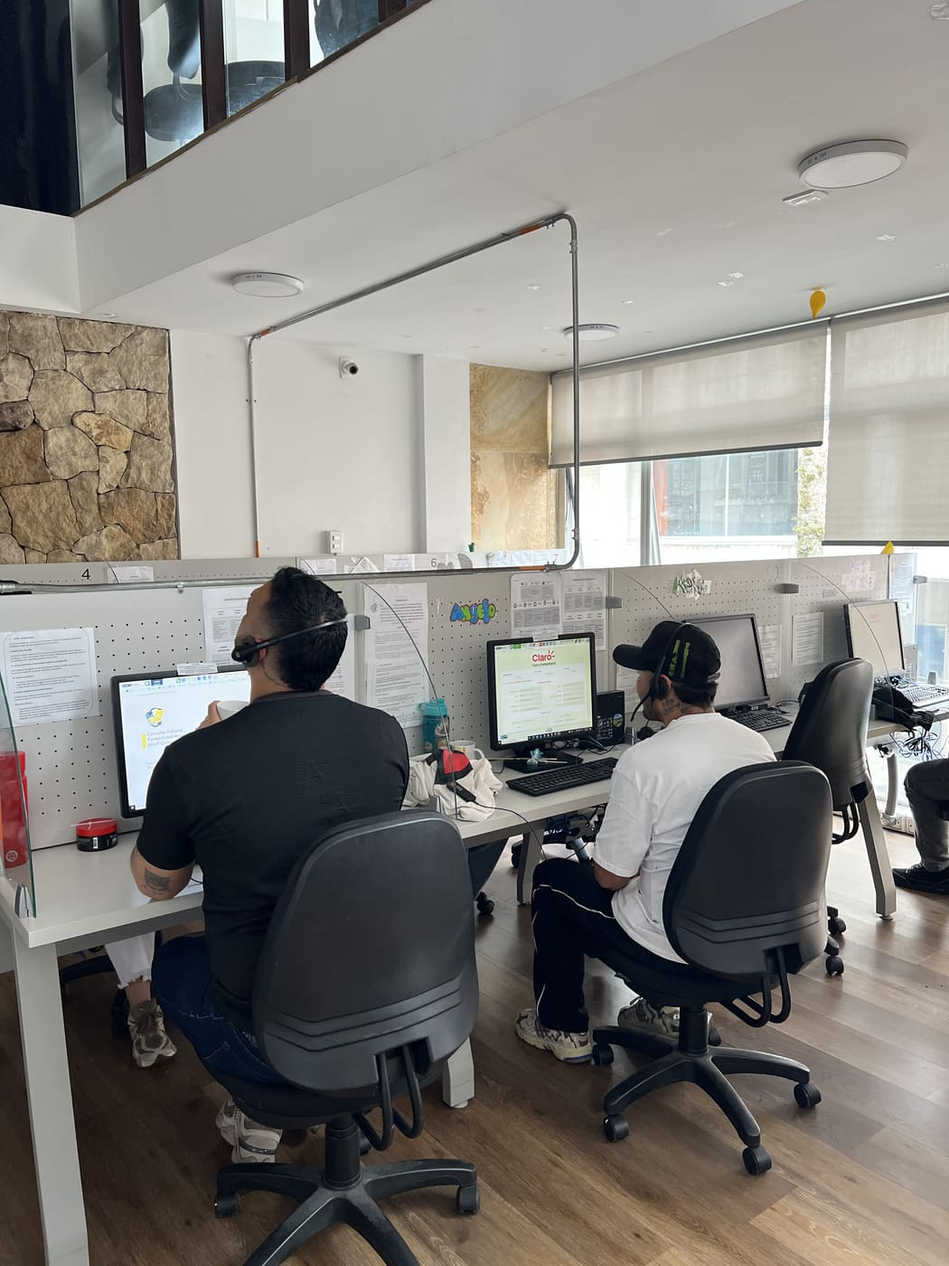
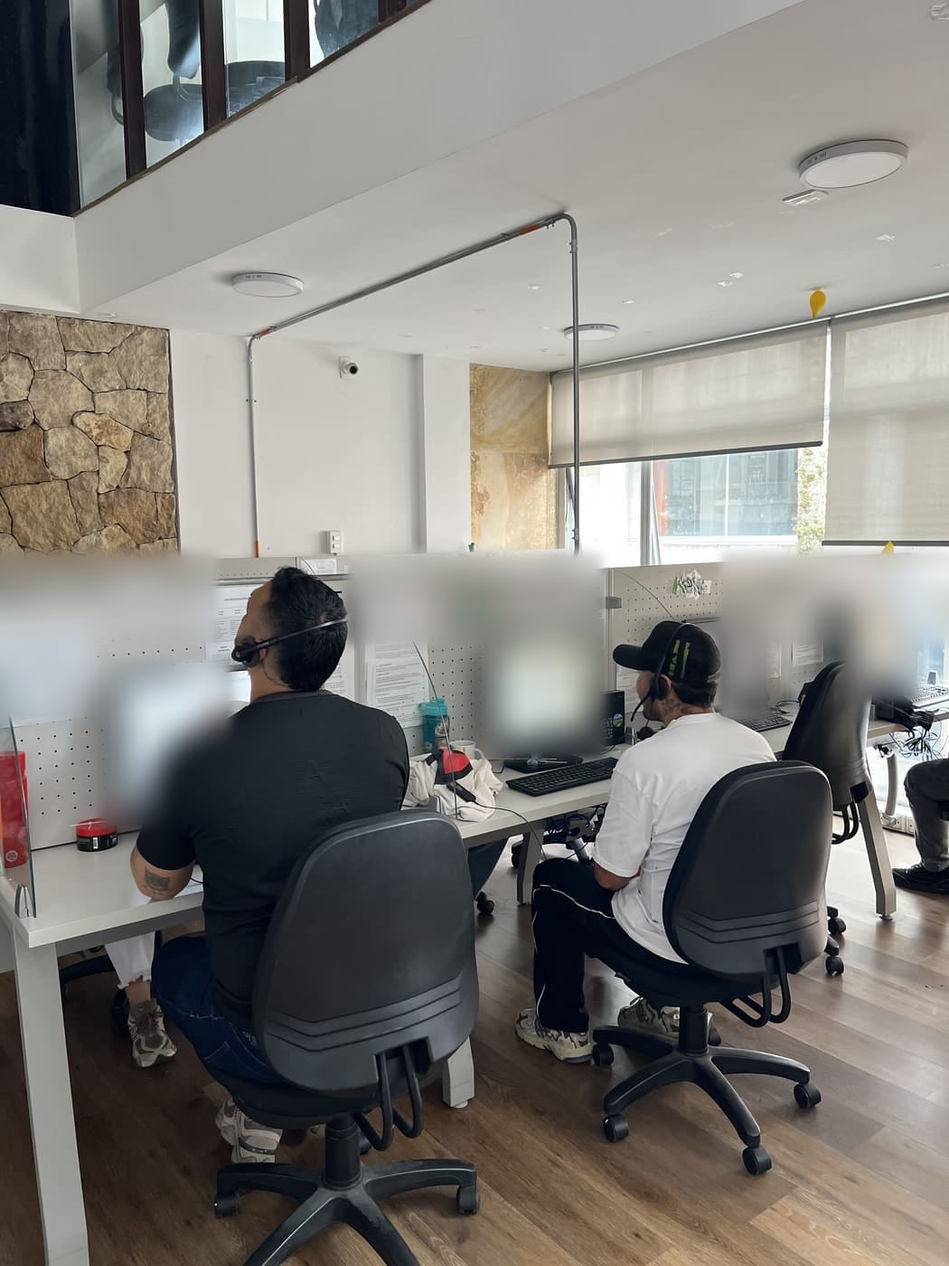
ISO 27001: fotos sin pantallas ni documentos visibles, políticas de datos y seguridad, autorización en formularios y cabeceras de seguridad
- Portada y galería: se desenfocan monitores, papeles y publicidad del cliente (A.7.7, A.5.31)
- Política de tratamiento de datos (Ley 1581) y política de seguridad de la información (A.5.1, A.5.34)
- Contáctanos pide autorización de datos; Trabaja con nosotros enlaza la política, finalidad y conservación
- Footer con columna Legal y canal para reportar incidentes; security.txt (A.5.24)
- Cabeceras CSP, X-Frame-Options, nosniff, Referrer-Policy, Permissions-Policy (A.8.9, A.8.26)
- Scripts del head en archivo propio (CSP sin unsafe-inline); se quita la afirmación de cifrado extremo a extremo

diff --git a/politica-datos.html b/politica-datos.html
@@ -1,0 +1,112 @@
+<!DOCTYPE html>
+<html lang="es">
+<head>
+  <meta charset="utf-8">
+  <meta name="viewport" content="width=device-width, initial-scale=1">
+  <title>Política de tratamiento de datos — VOZ360</title>
+  <meta name="description" content="Política de tratamiento de datos personales de VOZ360 conforme a la Ley 1581 de 2012.">
+  <meta name="theme-color" content="#071E3A">
+  <link rel="icon" href="assets/favicon.svg" type="image/svg+xml">
+  <link rel="stylesheet" href="css/legal.css?v=1">
+</head>
+<body>
+
+<header class="lg-head">
+  <div class="in">
+    <a href="./" aria-label="VOZ360 — inicio"><img src="assets/img/marca/voz360-blanco.png" width="900" height="323" alt="VOZ360"></a>
+    <a class="back" href="./">← Volver al sitio</a>
+  </div>
+</header>
+
+<section class="lg-hero">
+  <div class="in">
+    <small>Protección de datos personales</small>
+    <h1>Política de tratamiento de datos personales</h1>
+    <p>Versión 1.0 · Vigente desde septiembre de 2026 · Ley 1581 de 2012 y Decreto 1074 de 2015</p>
+  </div>
+</section>
+
+<main>
+  <h2>1. Responsable del tratamiento</h2>
+  <div class="box">
+    <p><b>Razón social:</b> VOZ360</p>
+    <p><b>NIT:</b> [NIT]</p>
+    <p><b>Domicilio y dirección:</b> [DIRECCIÓN]</p>
+    <p><b>Teléfono:</b> [TELÉFONO]</p>
+    <p><b>Correo para protección de datos:</b> <a href="mailto:datospersonales@voz360.co">datospersonales@voz360.co</a></p>
+  </div>
+
+  <h2>2. Marco legal y alcance</h2>
+  <p>Esta política se expide en cumplimiento del artículo 15 de la Constitución Política, la Ley Estatutaria 1581 de 2012 y el Decreto 1074 de 2015 (que compila el Decreto 1377 de 2013). Aplica a todos los datos personales que VOZ360 recoge, almacena, usa, circula o suprime, ya sea como <b>responsable</b> o como <b>encargado</b> por cuenta de sus clientes.</p>
+
+  <h2>3. Definiciones</h2>
+  <ul>
+    <li><b>Dato personal:</b> información vinculada o que pueda asociarse a una persona natural determinada o determinable.</li>
+    <li><b>Dato sensible:</b> el que afecta la intimidad del titular o cuyo uso indebido puede generar discriminación (por ejemplo, salud o datos biométricos).</li>
+    <li><b>Titular:</b> persona natural cuyos datos son objeto de tratamiento.</li>
+    <li><b>Tratamiento:</b> cualquier operación sobre datos personales: recolección, almacenamiento, uso, circulación o supresión.</li>
+    <li><b>Responsable:</b> quien decide sobre la base de datos y el tratamiento. <b>Encargado:</b> quien trata los datos por cuenta del responsable.</li>
+    <li><b>Autorización:</b> consentimiento previo, expreso e informado del titular.</li>
+  </ul>
+
+  <h2>4. Principios</h2>
+  <p>VOZ360 aplica los principios de legalidad, finalidad, libertad, veracidad o calidad, transparencia, acceso y circulación restringida, seguridad y confidencialidad. Solo recogemos los datos necesarios para la finalidad informada y no los usamos para fines distintos sin una nueva autorización.</p>
+
+  <h2>5. Datos que tratamos y para qué</h2>
+  <table>
+    <thead><tr><th>Titulares</th><th>Datos</th><th>Finalidades</th></tr></thead>
+    <tbody>
+      <tr><td>Personas que nos contactan por el sitio web</td><td>Nombre, empresa, cargo, ciudad, correo, teléfono y mensaje.</td><td>Responder la solicitud, enviar propuestas comerciales solicitadas y hacer seguimiento a la relación comercial.</td></tr>
+      <tr><td>Aspirantes a empleo</td><td>Identificación, fecha de nacimiento, datos de contacto, lugares de nacimiento y expedición del documento, experiencia y hoja de vida.</td><td>Verificar identidad y edad, evaluar el perfil, contactar al aspirante y adelantar el proceso de selección.</td></tr>
+      <tr><td>Colaboradores</td><td>Datos laborales, de seguridad social, imagen y voz.</td><td>Gestionar la relación laboral, obligaciones legales, seguridad de las instalaciones y comunicaciones internas o institucionales.</td></tr>
+      <tr><td>Usuarios atendidos en las campañas de nuestros clientes</td><td>Los que defina cada cliente, incluidas grabaciones de llamadas e interacciones.</td><td>Prestar el servicio contratado, en calidad de <b>encargado</b>, según las instrucciones del cliente responsable. Las llamadas pueden ser grabadas y monitoreadas con fines de calidad y seguridad, con aviso previo al usuario.</td></tr>
+      <tr><td>Personas que aparecen en fotos o videos institucionales</td><td>Imagen y voz.</td><td>Divulgación institucional en el sitio web y redes sociales de VOZ360, con autorización previa de cada persona.</td></tr>
+    </tbody>
+  </table>
+
+  <h2>6. Datos sensibles y de menores</h2>
+  <p>El titular no está obligado a autorizar el tratamiento de datos sensibles; su entrega es facultativa. VOZ360 no solicita datos de niños, niñas o adolescentes a través del sitio web; si llegara a tratarlos, lo hará respetando su interés superior y con autorización de su representante legal.</p>
+
+  <h2>7. Derechos del titular</h2>
+  <p>Como titular puedes:</p>
+  <ol>
+    <li>Conocer, actualizar y rectificar tus datos.</li>
+    <li>Solicitar prueba de la autorización otorgada.</li>
+    <li>Ser informado sobre el uso que se ha dado a tus datos.</li>
+    <li>Presentar quejas ante la Superintendencia de Industria y Comercio (SIC).</li>
+    <li>Revocar la autorización o pedir la supresión de tus datos cuando no exista un deber legal o contractual de conservarlos.</li>
+    <li>Acceder gratuitamente a tus datos.</li>
+  </ol>
+
+  <h2>8. Cómo ejercer tus derechos</h2>
+  <p>Escribe a <a href="mailto:datospersonales@voz360.co">datospersonales@voz360.co</a> indicando tu nombre, documento de identidad, la solicitud y un medio de respuesta.</p>
+  <ul>
+    <li><b>Consultas:</b> se responden en máximo <b>10 días hábiles</b>, prorrogables por 5 días hábiles más, informando el motivo.</li>
+    <li><b>Reclamos</b> (corrección, actualización, supresión o incumplimiento): se responden en máximo <b>15 días hábiles</b>, prorrogables por 8 días hábiles más. Si el reclamo está incompleto, te pediremos completarlo dentro de los 5 días siguientes; si pasan 2 meses sin respuesta, se entenderá que desististe.</li>
+  </ul>
+
+  <h2>9. Transmisión y transferencia</h2>
+  <p>Podemos compartir datos con proveedores que nos prestan servicios tecnológicos, de alojamiento o de mensajería, quienes actúan como encargados y están obligados por contrato a proteger la información. Si esos proveedores están fuera de Colombia, verificamos que ofrezcan un nivel adecuado de protección conforme a la ley. No vendemos ni cedemos datos personales a terceros.</p>
+
+  <h2>10. Seguridad de la información</h2>
+  <p>Aplicamos medidas técnicas, humanas y administrativas para evitar la pérdida, el uso o el acceso no autorizado a los datos, en el marco de nuestra <a href="politica-seguridad.html">Política de seguridad de la información</a>, alineada con la norma ISO/IEC 27001.</p>
+
+  <h2>11. Conservación</h2>
+  <p>Conservamos los datos solo durante el tiempo necesario para la finalidad informada y los plazos que exija la ley. Los datos de aspirantes no seleccionados se conservan máximo <b>12 meses</b>; las solicitudes comerciales, mientras dure la relación o hasta que pidas su supresión.</p>
+
+  <h2>12. Cookies y rastreadores</h2>
+  <p>Este sitio web <b>no utiliza cookies, píxeles de seguimiento ni herramientas de analítica de terceros</b>. Si esto cambia, lo informaremos y solicitaremos tu consentimiento cuando corresponda.</p>
+
+  <h2>13. Vigencia y cambios</h2>
+  <p>Esta política rige desde su publicación. Cualquier cambio sustancial se comunicará en este sitio web antes de aplicarse. Las bases de datos permanecerán vigentes mientras se cumplan las finalidades descritas.</p>
+</main>
+
+<footer class="lg-foot">
+  <div class="in">
+    <span>© 2026 VOZ360 · [NIT] · [DIRECCIÓN]</span>
+    <span><a href="politica-seguridad.html">Política de seguridad de la información</a></span>
+  </div>
+</footer>
+
+</body>
+</html>

diff --git a/index.html b/index.html
@@ -13,16 +13,9 @@
   <link rel="icon" href="assets/favicon.svg" type="image/svg+xml">
   <link rel="preload" href="assets/fonts/audiowide-latin.woff2" as="font" type="font/woff2" crossorigin>
   <link rel="preload" href="assets/fonts/sora-latin.woff2" as="font" type="font/woff2" crossorigin>
-  <link rel="stylesheet" href="css/styles.css?v=mum3ilz5">
+  <link rel="stylesheet" href="css/styles.css?v=mun37phx">
   <link rel="preload" href="assets/video/intro-360.mp4" as="video" type="video/mp4">
-  <script>
-    // Al entrar o recargar, la página siempre empieza desde el inicio
-    if ("scrollRestoration" in history) history.scrollRestoration = "manual";
-    if (location.hash) history.replaceState(null, "", location.pathname + location.search);
-    window.scrollTo(0, 0);
-    window.addEventListener("pageshow", function () { window.scrollTo({ top: 0, left: 0, behavior: "instant" }); });
-  </script>
-  <script>document.documentElement.classList.add('js', 'intro-active');setTimeout(function(){var i=document.getElementById('intro');if(i)i.classList.add('is-done');document.documentElement.classList.remove('intro-active');},8000);</script>
+  <script src="js/head.js?v=mun37phx"></script>
 </head>
 <body>
 
@@ -141,7 +134,7 @@
         <div class="qs-toast qs-t1"><div class="qs-ic qs-bl"><svg viewBox="0 0 24 24"><path d="M21 11.5a8.4 8.4 0 0 1-12.3 7.4L3 21l2-5.5A8.5 8.5 0 1 1 21 11.5z"/></svg></div><div><b>Nuevo chat entrante</b><small>WhatsApp · hace 2 s</small></div></div>
         <div class="qs-toast qs-t2"><div><small>Satisfacción</small><div class="qs-csat">4.9<span>/5</span></div><div class="qs-stars">★★★★★</div></div></div>
         <div class="qs-toast qs-t3"><div class="qs-ic qs-g"><svg viewBox="0 0 24 24"><path d="M20 6 9 17l-5-5"/></svg></div><div><b>Caso resuelto</b><small>Primer contacto</small></div></div>
-        <div class="qs-toast qs-t4"><div class="qs-ic qs-nv"><svg viewBox="0 0 24 24"><rect x="4" y="11" width="16" height="10" rx="2"/><path d="M8 11V7a4 4 0 0 1 8 0v4"/></svg></div><div><b>Datos protegidos</b><small>Cifrado extremo a extremo</small></div></div>
+        <div class="qs-toast qs-t4"><div class="qs-ic qs-nv"><svg viewBox="0 0 24 24"><rect x="4" y="11" width="16" height="10" rx="2"/><path d="M8 11V7a4 4 0 0 1 8 0v4"/></svg></div><div><b>Información protegida</b><small>Confidencialidad en cada gestión</small></div></div>
       </div>
     </div>
   </div>
@@ -663,6 +656,7 @@
       <div class="footer-brand" data-reveal>
         <img class="brand-logo" src="assets/img/marca/voz360-blanco.png" width="900" height="323" alt="VOZ360">
         <p>Conecta con soluciones.</p>
+        <p class="footer-sgsi">Comprometidos con la seguridad y la confidencialidad de la información de nuestros clientes, colaboradores y usuarios.</p>
         <div class="eq" aria-hidden="true">
           <span class="vz-bar" style="animation-delay:0s"></span>
           <span class="vz-bar" style="animation-delay:.2s"></span>
@@ -690,6 +684,12 @@
         <a href="#contacto">Contacto</a>
         <a href="#faq">Preguntas frecuentes</a>
         <a href="https://instagram.com/voz360_contact_center" target="_blank" rel="noopener">Instagram</a>
+      </div>
+      <div class="footer-col" data-reveal style="--delay:400ms">
+        <h4>Legal</h4>
+        <a href="politica-datos.html">Tratamiento de datos</a>
+        <a href="politica-seguridad.html">Seguridad de la información</a>
+        <a href="mailto:seguridad@voz360.co?subject=Reporte%20de%20incidente%20de%20seguridad">Reportar un incidente</a>
       </div>
     </div>
     <div class="footer-bottom">
@@ -759,7 +759,7 @@
       <div class="bot-flow" id="flow-contacto" hidden>
         <div class="bot-msg bot-msg--user">Contáctanos</div>
         <div class="bot-msg">Escríbenos y diseñamos una solución para tu empresa. Déjanos tus datos:</div>
-        <form class="form bot-form" id="contact-form" novalidate data-endpoint="FORM_ENDPOINT" data-required-msg="Revisa los campos obligatorios: nombre, correo y mensaje." data-ok-msg="¡Gracias! Recibimos tu solicitud y te contactaremos pronto.">
+        <form class="form bot-form" id="contact-form" novalidate data-endpoint="FORM_ENDPOINT" data-required-msg="Revisa los campos obligatorios: nombre, correo, mensaje y la autorización de datos." data-ok-msg="¡Gracias! Recibimos tu solicitud y te contactaremos pronto.">
           <div class="form-grid">
             <div class="field"><label for="f-nombre">Nombre</label><input id="f-nombre" name="nombre" type="text" placeholder="Tu nombre" autocomplete="name" required></div>
             <div class="field"><label for="f-empresa">Empresa</label><input id="f-empresa" name="empresa" type="text" placeholder="Nombre de tu empresa" autocomplete="organization"></div>
@@ -772,6 +772,7 @@
             <label for="f-msg">¿Cómo podemos ayudarte?</label>
             <textarea id="f-msg" name="mensaje" placeholder="Cuéntanos brevemente tu necesidad..." required></textarea>
           </div>
+          <label class="check"><input type="checkbox" name="autoriza_datos" value="Sí" required> <span>Autorizo a VOZ360 el tratamiento de mis datos personales para atender mi solicitud, según la <a href="politica-datos.html" target="_blank" rel="noopener">Política de tratamiento de datos</a> (Ley 1581 de 2012).</span></label>
           <button class="form-submit vz-btn" type="submit">Enviar solicitud</button>
           <p class="form-status" role="status" aria-live="polite"></p>
         </form>
@@ -821,7 +822,7 @@
                 <label><input type="radio" name="experiencia_call_center" value="No"><span>No</span></label>
               </div>
             </fieldset>
-            <label class="check field--full"><input type="checkbox" name="autoriza_datos" value="Sí" required> Autorizo a VOZ360 el tratamiento de mis datos personales para procesos de selección (Ley 1581 de 2012).</label>
+            <label class="check field--full"><input type="checkbox" name="autoriza_datos" value="Sí" required> <span>Autorizo a VOZ360 el tratamiento de mis datos personales para el proceso de selección (verificar identidad, contactarme y evaluar mi perfil), según la <a href="politica-datos.html" target="_blank" rel="noopener">Política de tratamiento de datos</a> (Ley 1581 de 2012). Si no soy seleccionado, mis datos se conservarán máximo 12 meses.</span></label>
           </div>
           <button class="form-submit vz-btn" type="submit">Enviar postulación</button>
           <p class="form-status" role="status" aria-live="polite"></p>
@@ -858,6 +859,6 @@
   </button>
 </div>
 
-<script src="js/main.js?v=mum3ilz5" defer></script>
+<script src="js/main.js?v=mun37phx" defer></script>
 </body>
 </html>

diff --git a/politica-seguridad.html b/politica-seguridad.html
@@ -1,0 +1,83 @@
+<!DOCTYPE html>
+<html lang="es">
+<head>
+  <meta charset="utf-8">
+  <meta name="viewport" content="width=device-width, initial-scale=1">
+  <title>Política de seguridad — VOZ360</title>
+  <meta name="description" content="Política de seguridad de la información de VOZ360, alineada con la norma ISO/IEC 27001:2022.">
+  <meta name="theme-color" content="#071E3A">
+  <link rel="icon" href="assets/favicon.svg" type="image/svg+xml">
+  <link rel="stylesheet" href="css/legal.css?v=1">
+</head>
+<body>
+
+<header class="lg-head">
+  <div class="in">
+    <a href="./" aria-label="VOZ360 — inicio"><img src="assets/img/marca/voz360-blanco.png" width="900" height="323" alt="VOZ360"></a>
+    <a class="back" href="./">← Volver al sitio</a>
+  </div>
+</header>
+
+<section class="lg-hero">
+  <div class="in">
+    <small>Seguridad de la información</small>
+    <h1>Política de seguridad de la información</h1>
+    <p>Versión 1.0 · Septiembre de 2026 · Alineada con ISO/IEC 27001:2022</p>
+  </div>
+</section>
+
+<main>
+  <h2>1. Propósito</h2>
+  <p>En VOZ360 la información de nuestros clientes, de los usuarios que atendemos y de nuestros colaboradores es uno de nuestros activos más valiosos. Esta política establece el compromiso de la Dirección de proteger su <b>confidencialidad</b>, <b>integridad</b> y <b>disponibilidad</b>, mediante un Sistema de Gestión de Seguridad de la Información (SGSI) basado en la norma ISO/IEC 27001:2022.</p>
+
+  <h2>2. Alcance</h2>
+  <p>Aplica a todos los procesos de VOZ360, sus instalaciones, sistemas, canales de atención (voz, chat, correo, WhatsApp, redes sociales y videoatención), colaboradores, contratistas y proveedores que accedan a información de la organización o de sus clientes.</p>
+
+  <h2>3. Compromisos</h2>
+  <ul>
+    <li>Proteger la información frente a accesos, usos, divulgaciones, modificaciones o pérdidas no autorizadas.</li>
+    <li>Cumplir los requisitos legales, regulatorios y contractuales aplicables, incluida la Ley 1581 de 2012 de protección de datos personales y los acuerdos de confidencialidad con nuestros clientes.</li>
+    <li>Gestionar los riesgos de seguridad de la información y aplicar controles proporcionales a ellos.</li>
+    <li>Asegurar la continuidad de los servicios críticos de atención.</li>
+    <li>Formar y sensibilizar a todos los colaboradores en seguridad de la información.</li>
+    <li>Mejorar continuamente el SGSI.</li>
+  </ul>
+
+  <h2>4. Lineamientos principales</h2>
+  <h3>Acceso a la información</h3>
+  <p>El acceso se concede según el principio de mínimo privilegio y la necesidad de conocer, con usuarios personales, contraseñas robustas y verificación en dos pasos donde sea posible.</p>
+  <h3>Escritorio y pantalla limpios</h3>
+  <p>Las pantallas se bloquean al ausentarse del puesto, no se dejan documentos con información de clientes a la vista y está prohibido fotografiar o grabar pantallas o documentos con información de la operación.</p>
+  <h3>Confidencialidad con clientes</h3>
+  <p>La información de cada campaña se usa solo para prestar el servicio contratado y no se divulga a terceros. Todos los colaboradores firman acuerdos de confidencialidad.</p>
+  <h3>Proveedores y servicios en la nube</h3>
+  <p>Los proveedores que tratan información de VOZ360 o de sus clientes se evalúan y se obligan contractualmente a cumplir requisitos de seguridad.</p>
+  <h3>Desarrollo y cambios</h3>
+  <p>Los sistemas y el sitio web se construyen con prácticas de desarrollo seguro, y los cambios se prueban antes de pasar a producción.</p>
+  <h3>Gestión de incidentes</h3>
+  <p>Todo evento o incidente de seguridad se reporta, se analiza y se atiende de forma oportuna para reducir su impacto y evitar que se repita.</p>
+
+  <h2>5. Reporte de incidentes y vulnerabilidades</h2>
+  <div class="box">
+    <p>Si detectas un incidente de seguridad, un uso indebido de información o una vulnerabilidad en nuestros sistemas o en este sitio web, escríbenos a <a href="mailto:seguridad@voz360.co?subject=Reporte%20de%20incidente%20de%20seguridad">seguridad@voz360.co</a>.</p>
+    <p>Agradecemos los reportes responsables: no accedas, modifiques ni divulgues información de terceros y danos un tiempo razonable para corregir el problema. También publicamos este contacto en <a href="/.well-known/security.txt">security.txt</a>.</p>
+  </div>
+
+  <h2>6. Responsabilidades</h2>
+  <p>La Dirección aprueba esta política y asigna los recursos del SGSI. El responsable de seguridad de la información coordina su implementación y seguimiento. Cada colaborador, contratista y proveedor es responsable de cumplirla; su incumplimiento puede dar lugar a las medidas disciplinarias o contractuales correspondientes.</p>
+
+  <h2>7. Revisión</h2>
+  <p>Esta política se revisa al menos una vez al año, o antes si hay cambios significativos en la organización, los riesgos o la normativa.</p>
+
+  <p>Consulta también nuestra <a href="politica-datos.html">Política de tratamiento de datos personales</a>.</p>
+</main>
+
+<footer class="lg-foot">
+  <div class="in">
+    <span>© 2026 VOZ360 · [NIT] · [DIRECCIÓN]</span>
+    <span><a href="politica-datos.html">Política de tratamiento de datos</a></span>
+  </div>
+</footer>
+
+</body>
+</html>

diff --git a/css/legal.css b/css/legal.css
@@ -1,0 +1,32 @@
+/* Páginas legales: política de datos y política de seguridad */
+@font-face { font-family: 'Sora'; font-style: normal; font-weight: 100 800; font-display: swap; src: url('../assets/fonts/sora-latin.woff2') format('woff2'); }
+:root { --navy: #071E3A; --accent: #0A79E8; --cyan: #9BE7F9; --ink: #3A3A3A; --muted: #6A6A6A; --line: #DBDBDB; --soft: #F5F5F5; }
+* { box-sizing: border-box; }
+html { -webkit-text-size-adjust: 100%; }
+body { margin: 0; background: #FFFFFF; color: var(--ink); font-family: Sora, 'Segoe UI', sans-serif; font-size: 15px; line-height: 1.75; -webkit-font-smoothing: antialiased; }
+a { color: var(--accent); text-underline-offset: 2px; }
+.lg-head { background: var(--navy); }
+.lg-head .in { max-width: 880px; margin: 0 auto; padding: 18px 20px; display: flex; align-items: center; justify-content: space-between; gap: 16px; }
+.lg-head img { display: block; height: 28px; width: auto; }
+.lg-head a.back { color: #E8F2FA; font-size: 13px; text-decoration: none; }
+.lg-head a.back:hover { color: var(--cyan); }
+.lg-hero { background: linear-gradient(180deg, var(--navy), #0E2C52); color: #FFFFFF; }
+.lg-hero .in { max-width: 880px; margin: 0 auto; padding: 48px 20px 44px; }
+.lg-hero small { display: block; font-size: 11px; font-weight: 700; letter-spacing: .2em; text-transform: uppercase; color: var(--cyan); }
+.lg-hero h1 { margin: 10px 0 12px; font-size: clamp(28px, 5vw, 42px); line-height: 1.1; letter-spacing: -.02em; }
+.lg-hero p { margin: 0; color: #B9CBE0; font-size: 14px; }
+main { max-width: 880px; margin: 0 auto; padding: 40px 20px 72px; }
+h2 { margin: 40px 0 10px; color: var(--navy); font-size: 20px; line-height: 1.3; }
+h2:first-child { margin-top: 0; }
+h3 { margin: 22px 0 6px; color: var(--navy); font-size: 15px; }
+ul, ol { padding-left: 22px; }
+li { margin: 4px 0; }
+.box { margin: 18px 0; padding: 18px 20px; border-radius: 14px; background: var(--soft); border: 1px solid var(--line); }
+.box p { margin: 4px 0; }
+table { width: 100%; border-collapse: collapse; margin: 14px 0; font-size: 14px; }
+th, td { text-align: left; vertical-align: top; padding: 10px 12px; border-bottom: 1px solid var(--line); }
+th { color: var(--navy); background: var(--soft); }
+.lg-foot { border-top: 1px solid var(--line); }
+.lg-foot .in { max-width: 880px; margin: 0 auto; padding: 22px 20px; font-size: 12px; color: var(--muted); display: flex; flex-wrap: wrap; gap: 8px 20px; justify-content: space-between; }
+@media (max-width: 560px) { body { font-size: 14px; } table, thead, tbody, tr, th, td { display: block; } thead { display: none; } td { border: 0; padding: 4px 0; } tr { padding: 10px 0; border-bottom: 1px solid var(--line); } td:first-child { font-weight: 700; color: var(--navy); } }
+@media print { .lg-head, .lg-foot { display: none; } .lg-hero { background: none; color: #000; } }

diff --git a/css/styles.css b/css/styles.css
@@ -908,7 +908,7 @@ html.intro-active { overflow: hidden; }
    15. FOOTER
    ========================================================== */
 .footer { padding: 56px 0 30px; background: var(--navy-deep); color: #FFFFFF; }
-.footer-grid { display: grid; grid-template-columns: 1.7fr 1fr 1fr 1fr; gap: 50px; padding-bottom: 60px; }
+.footer-grid { display: grid; grid-template-columns: 1.6fr 1fr 1fr 1fr 1.1fr; gap: 44px; padding-bottom: 60px; }
 .footer-brand { display: flex; flex-direction: column; gap: 12px; }
 .footer-brand .brand-logo { align-self: flex-start; height: 36px; margin-bottom: 4px; }
 .footer-brand p { font-family: var(--alt); max-width: 270px; font-size: 13px; line-height: 1.65; color: #B7B7B7; }
@@ -918,6 +918,8 @@ html.intro-active { overflow: hidden; }
 .footer-col h4 { margin: 0 0 4px; font-size: 11px; font-weight: 700; letter-spacing: .16em; text-transform: uppercase; color: #FFFFFF; }
 .footer-col a { font-size: 13px; color: #B7B7B7; }
 .footer-col a:hover { color: var(--cyan); }
+.footer-brand .footer-sgsi { font-family: var(--body); font-size: 12px; line-height: 1.6; color: #8FA3B8; }
+.check a { color: var(--accent); font-weight: 600; text-decoration: underline; text-underline-offset: 2px; }
 .footer-bottom { display: flex; align-items: center; justify-content: space-between; gap: 20px; padding-top: 20px; border-top: 1px solid rgba(255,255,255,.12); }
 .footer-bottom span { font-size: 11px; color: #B7B7B7; }
 
@@ -929,7 +931,7 @@ html.intro-active { overflow: hidden; }
   .hero h1 { font-size: clamp(44px, min(5.4vw, 10.5vh), 64px); }
   .nav { gap: 22px; }
   .servicios-grid { grid-template-columns: repeat(2, minmax(0, 1fr)); }
-  .footer-grid { grid-template-columns: 1.4fr 1fr 1fr 1fr; gap: 32px; }
+  .footer-grid { grid-template-columns: 1.3fr 1fr 1fr 1fr 1.1fr; gap: 28px; }
 }
 
 @media (max-width: 960px) {

diff --git a/js/head.js b/js/head.js
@@ -1,0 +1,7 @@
+// Se carga en el <head> (sin defer): la página siempre empieza desde el inicio
+if ("scrollRestoration" in history) history.scrollRestoration = "manual";
+if (location.hash) history.replaceState(null, "", location.pathname + location.search);
+window.scrollTo(0, 0);
+window.addEventListener("pageshow", function () { window.scrollTo({ top: 0, left: 0, behavior: "instant" }); });
+document.documentElement.classList.add('js', 'intro-active');
+setTimeout(function () { var i = document.getElementById('intro'); if (i) i.classList.add('is-done'); document.documentElement.classList.remove('intro-active'); }, 8000);

diff --git a/js/main.js b/js/main.js
@@ -734,7 +734,7 @@
       }
 
       if (!endpoint) {
-        setStatus('El formulario aún no está conectado. Mientras tanto, escríbenos por Instagram: @voz360_contact_center.', 'error');
+        setStatus(form.id === 'job-form' ? 'El formulario aún no está disponible. Puedes enviar tu hoja de vida a seleccion@voz360.co.' : 'El formulario aún no está disponible. Inténtalo de nuevo más tarde.', 'error');
         return;
       }
 
